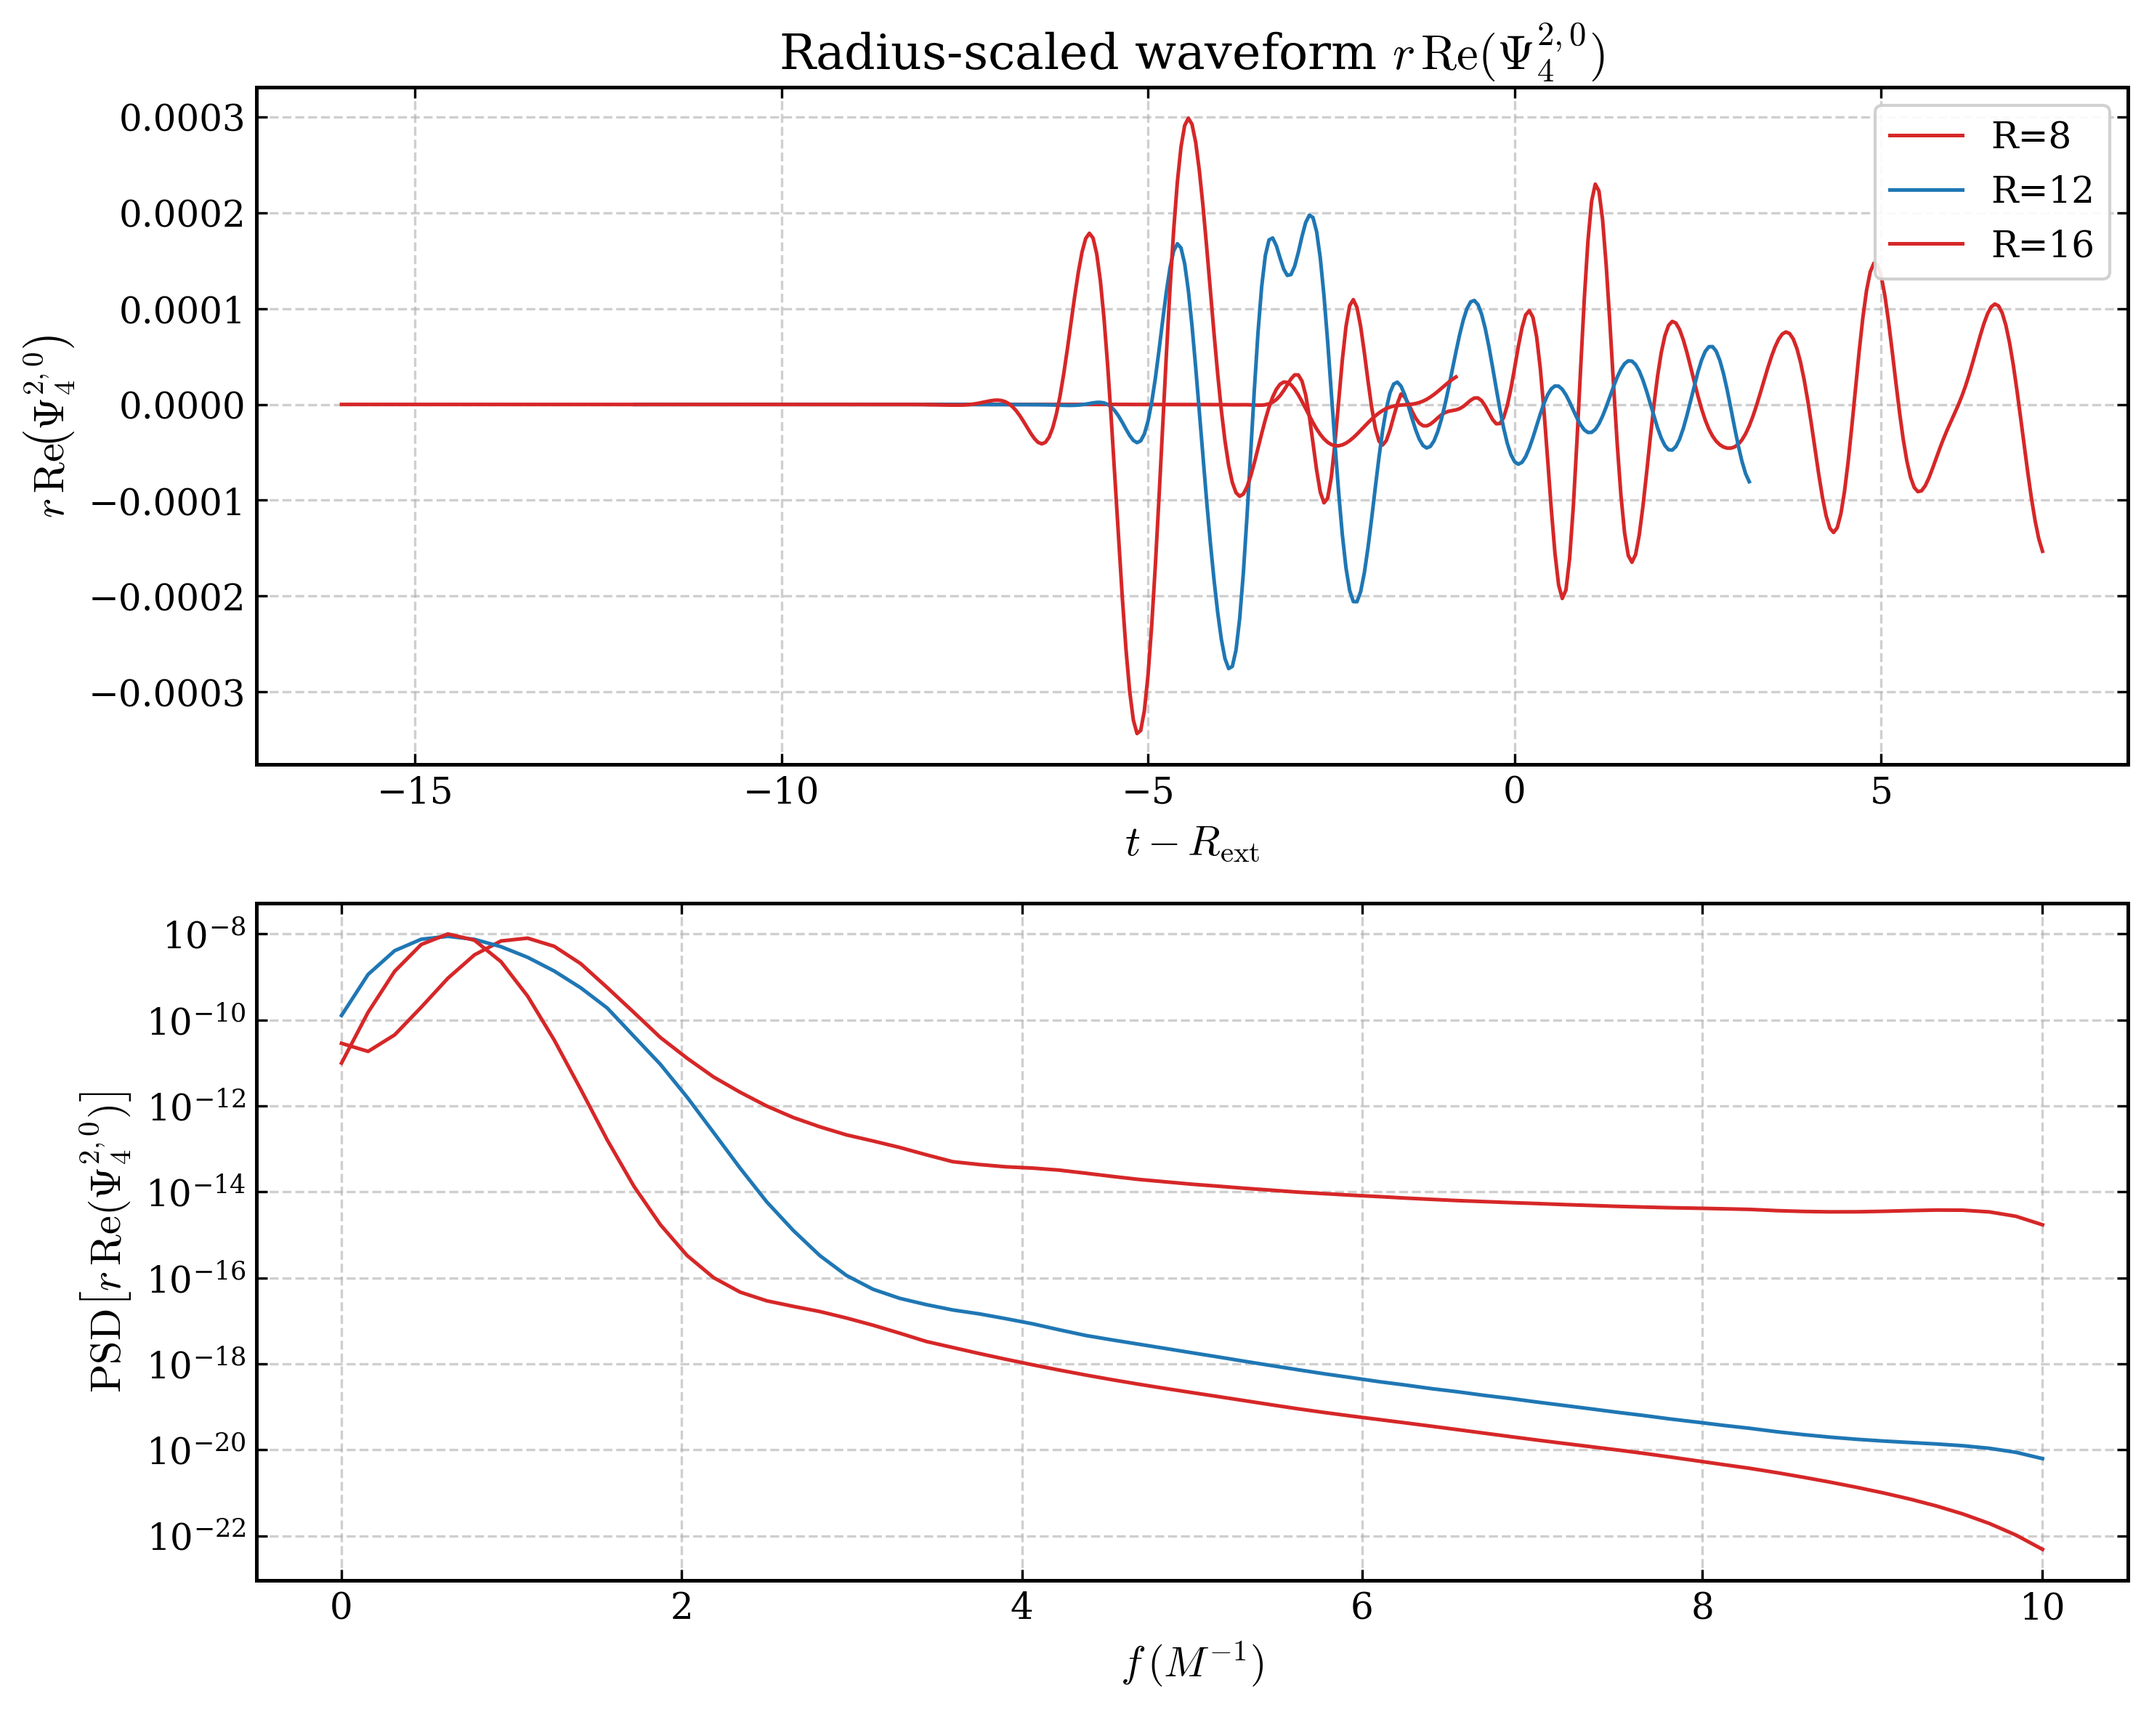
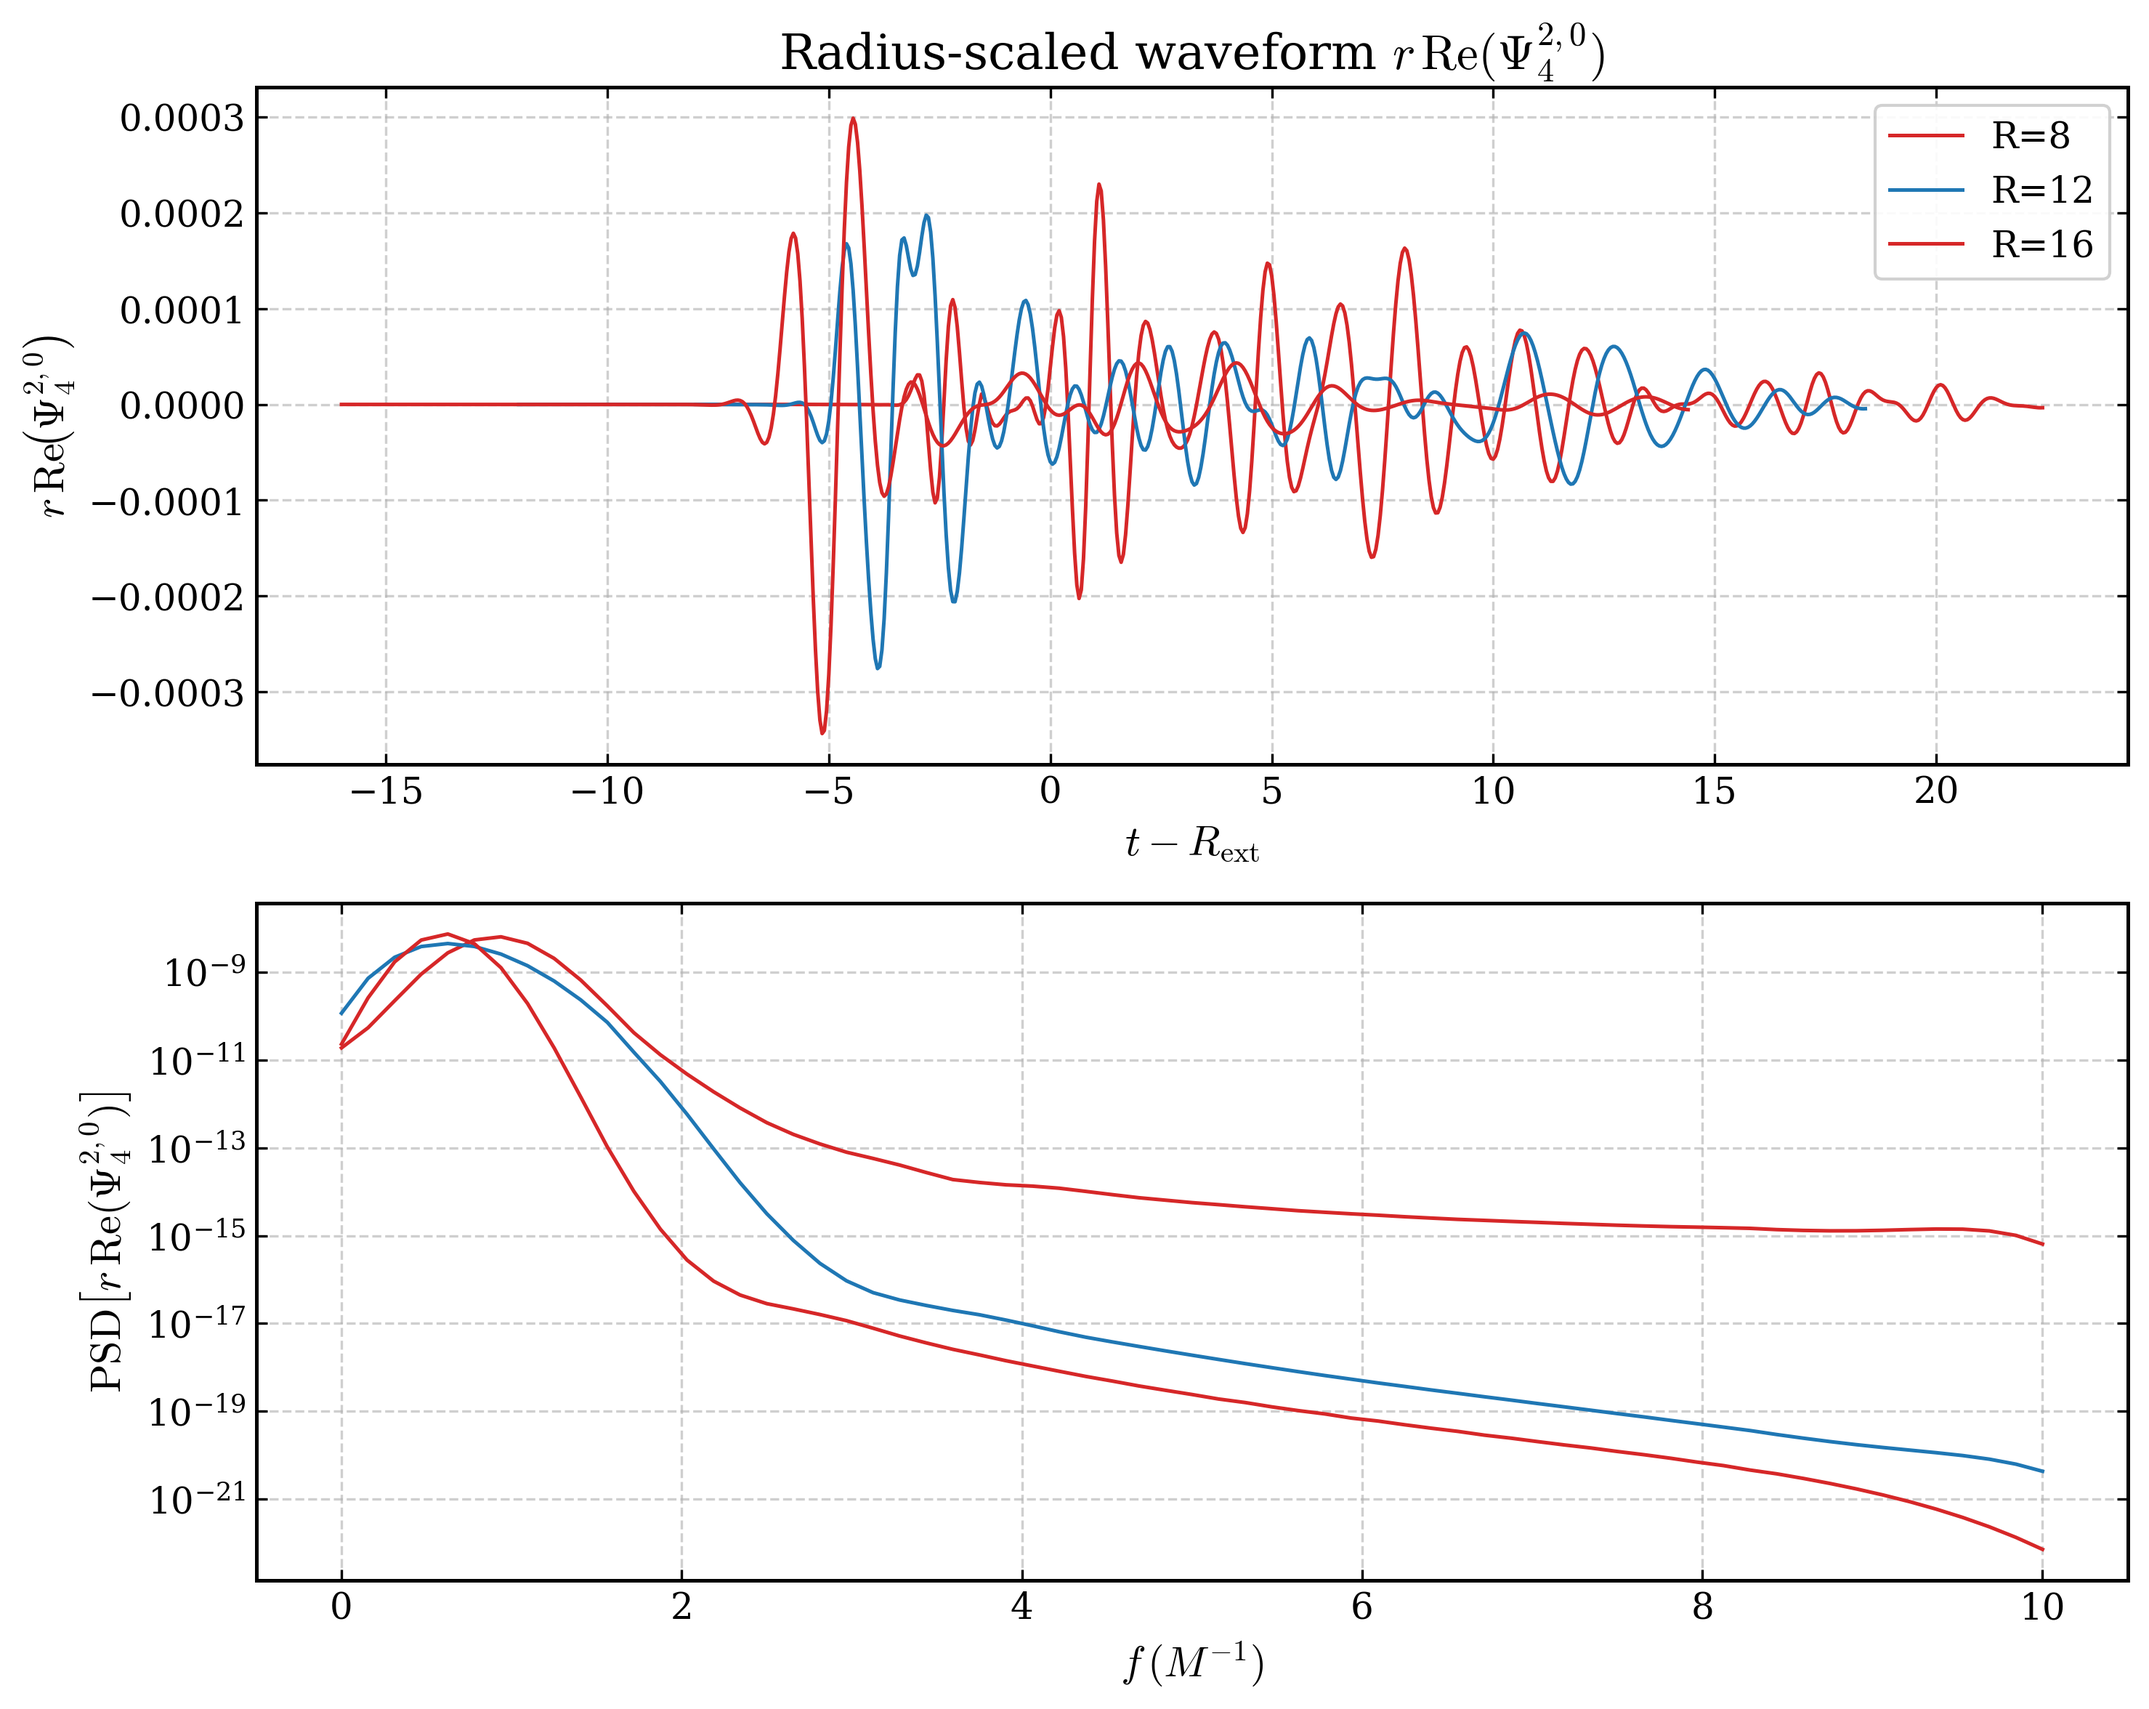
fix: plotting scripts

diff --git a/src/visualisation/process_wave/plot_extracted_psi4.py b/src/visualisation/process_wave/plot_extracted_psi4.py
@@ -146,6 +146,7 @@ def main() -> None:
     parser = argparse.ArgumentParser(description="Plot extracted Psi4 time-series (.dat) with PSD.")
     parser.add_argument("input", nargs="?", default=str(default_data), help=f"Input .dat (default: {default_data})")
     parser.add_argument("--out", default=str(script_dir), help="Output directory (default: this folder)")
+    parser.add_argument("--name", default=None, help="Optional output filename (default: auto-generated from radii)")
     parser.add_argument("--radii", type=float, nargs="*", default=None, help="Subset of radii to plot (defaults to all)")
     parser.add_argument("--time-axis", choices=["simulation", "retarded"], default="simulation", help="Time axis to use (default: simulation)")
     parser.add_argument("--plot-psd", action="store_true", help="Enable PSD plot (default: False)")
@@ -242,7 +243,8 @@ def main() -> None:
     out_dir = Path(args.out).expanduser().resolve()
     out_dir.mkdir(parents=True, exist_ok=True)
     suffix = "_".join([f"R{r:g}" for r in radii])
-    out_path = out_dir / f"psi4_extracted_{suffix}.png"
+    out_name = args.name if args.name else f"psi4_extracted_{suffix}.png"
+    out_path = out_dir / out_name
     plt.tight_layout()
     plt.savefig(out_path, dpi=300, bbox_inches="tight")
     print(f"Saved to {out_path}")

diff --git a/src/visualisation/process_wave/README.md b/src/visualisation/process_wave/README.md
@@ -130,6 +130,18 @@ python -m src.visualisation.process_wave.plot_extracted_psi4 \
 
 **Output:** `psi4_extracted_R10_R14.png`
 
+To also save the same waveform against simulation time \(t\) in the same folder:
+
+```bash
+python -m src.visualisation.process_wave.plot_extracted_psi4 \
+  "/home/jovyan/nachevsky/test/simulation/data_2gpu/small_data/psi4_mode_l2m0.dat" \
+  --radii 10 14 \
+  --time-axis simulation \
+  --out "/home/jovyan/nachevsky/test/simulation/GRTeclyn/src/visualisation/process_wave" \
+  --name "psi4_extracted_simulation.png" \
+  --plot-psd
+```
+
 If you omit `--radii`, the script plots **all radii present in the `.dat` file**:
 
 ```bash
@@ -146,6 +158,7 @@ python -m src.visualisation.process_wave.plot_extracted_psi4 \
 
 - `input`: Path to the `.dat` file (default: searches in `data_2gpu/small_data` or `data/small_data`)
 - `--out PATH`: Output directory for the plot
+- `--name FILE.png`: Optional output filename. Useful for saving both retarded-time and simulation-time plots side by side.
 - `--radii R1 R2 ...`: Optional subset of radii to plot. If omitted, all radii stored in the `.dat` file are plotted.
 - `--time-axis {simulation, retarded}`: Choose time axis (default: `simulation`). `retarded` plots $t - R$.
 - `--plot-psd`: Enable Power Spectral Density (PSD) plot (default: disabled)

diff --git a/src/visualisation/scripts/README.md b/src/visualisation/scripts/README.md
@@ -1,3 +1,7 @@
 ```bash
 bash src/visualisation/scripts/plot_diagnostic.sh
 ```
+
+```bash
+./src/visualisation/scripts/move_files.sh run_01
+```
